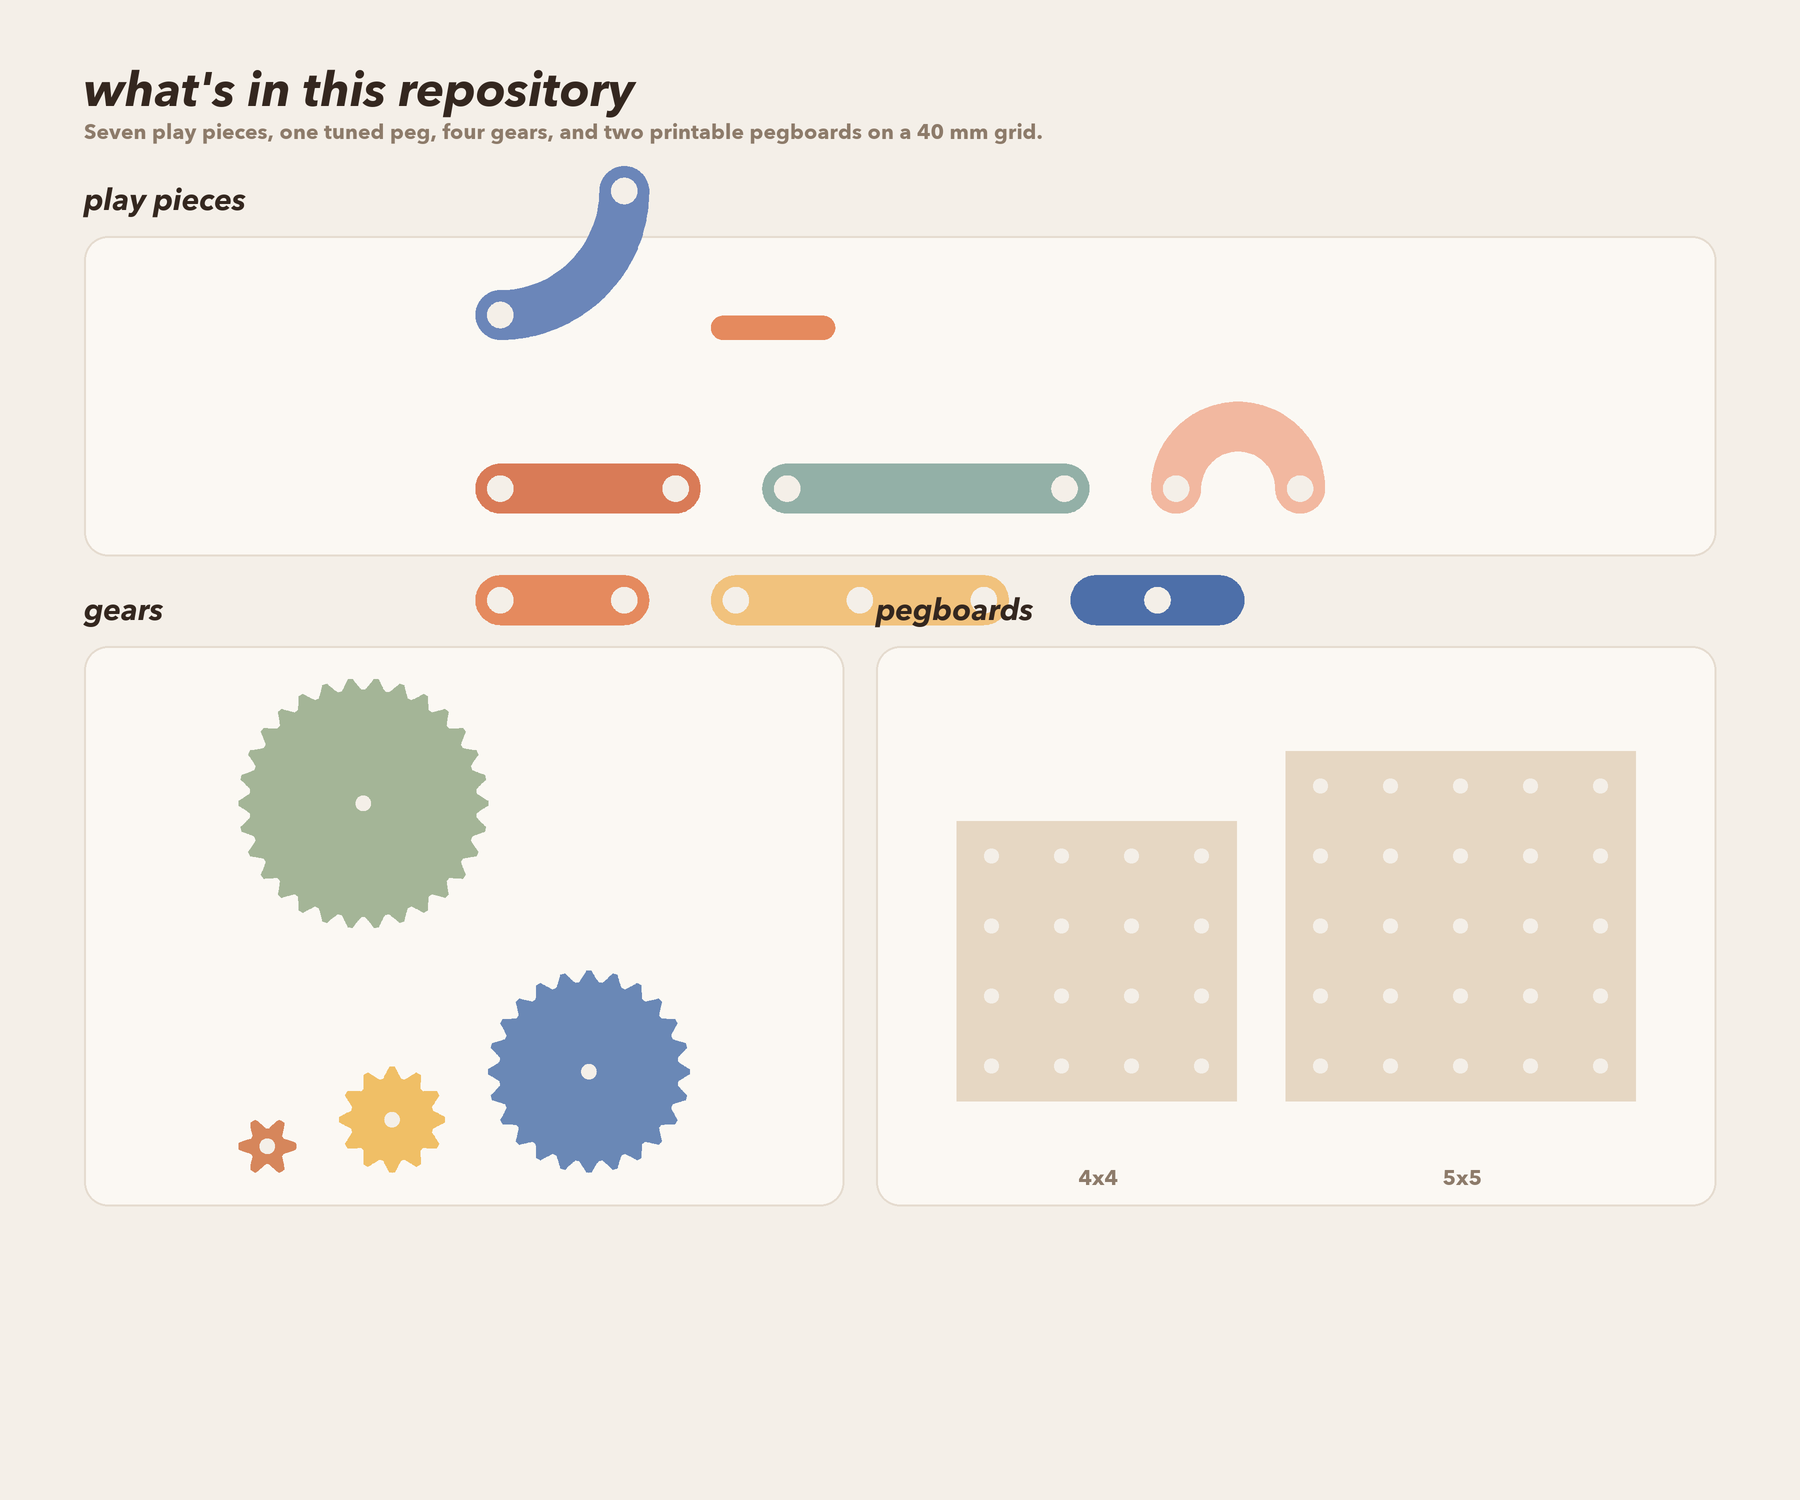
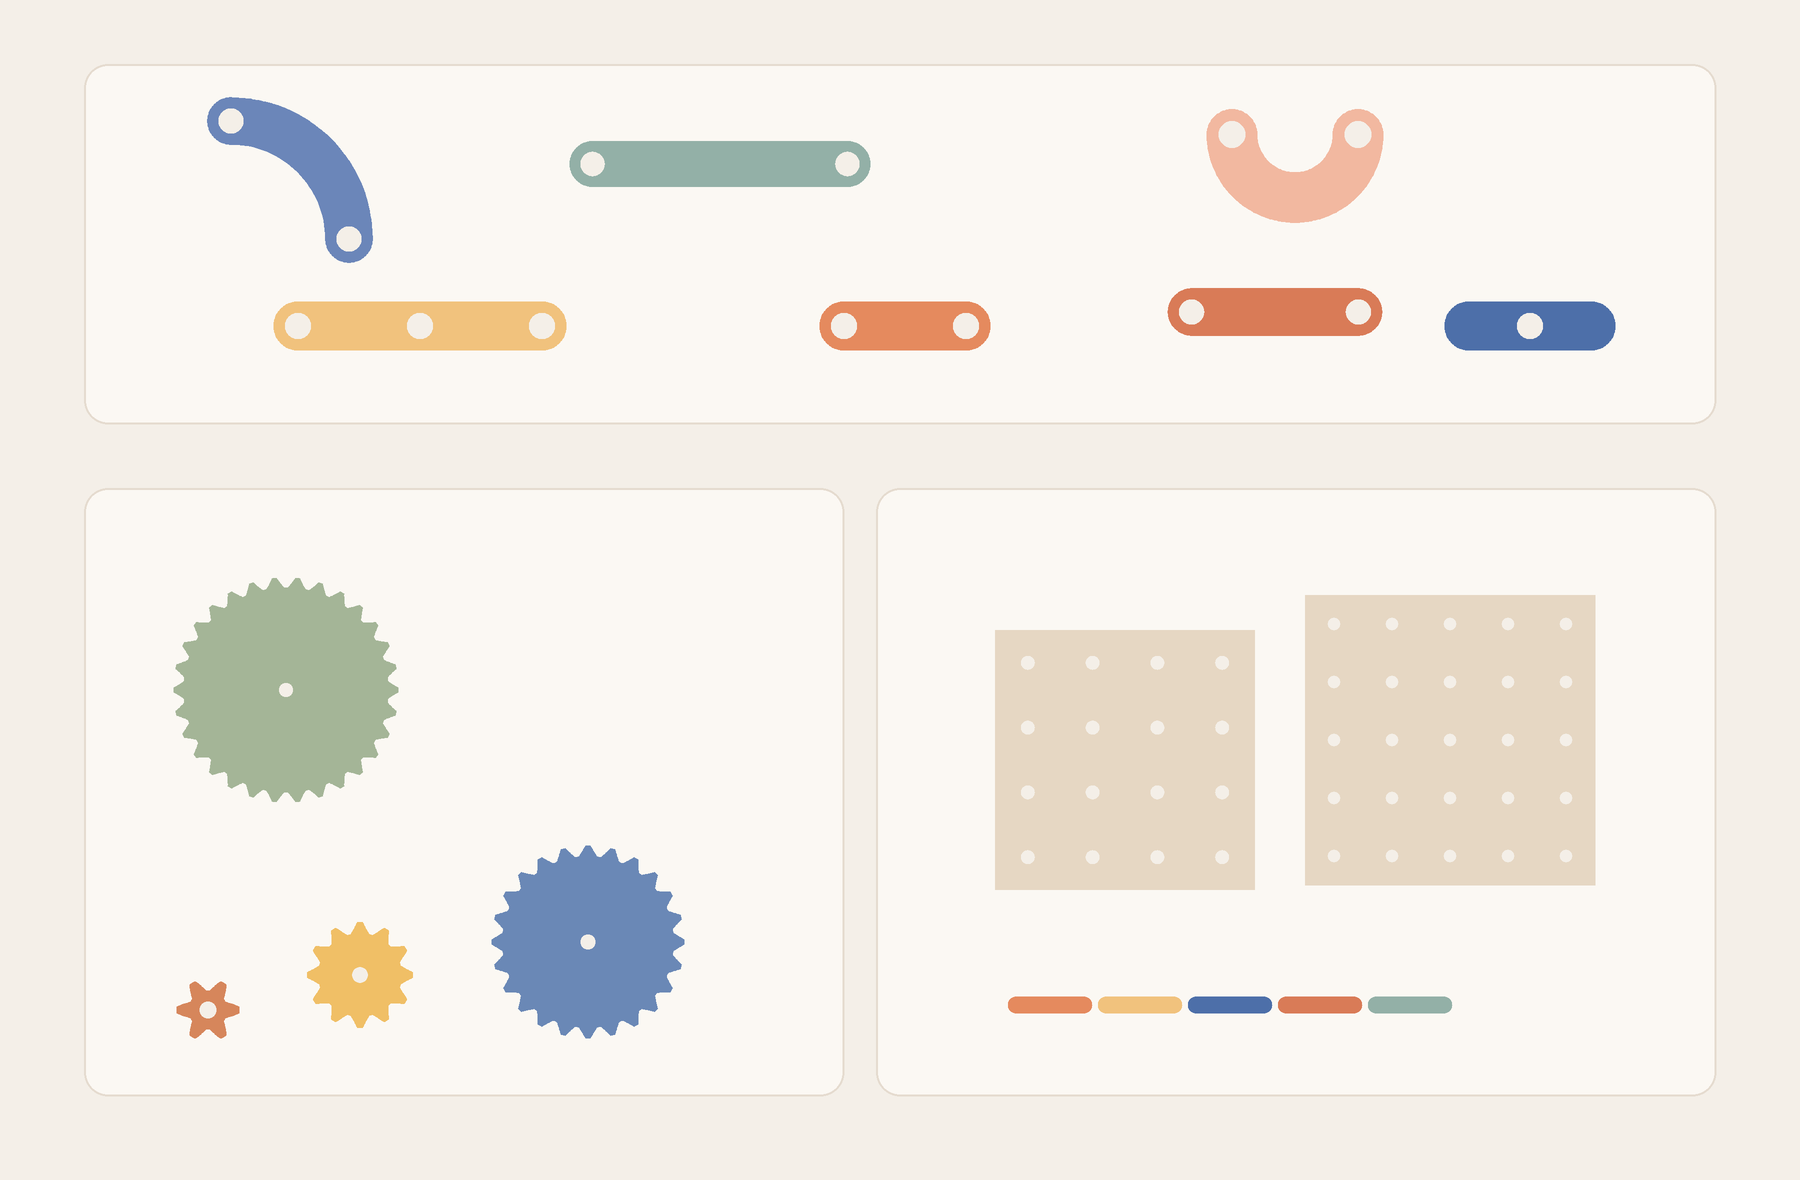
Refine overview section

diff --git a/generate_repository_assets.py b/generate_repository_assets.py
@@ -33,8 +33,7 @@ BOARD_HOLE = "#6D5747"
 
 UPSCALE = 2
 CANVAS_W = 1800
-CANVAS_H = 1500
-DRAW_SCALE = 2.2
+CANVAS_H = 1180
 
 
 def load_font(size: int, bold: bool = False):
@@ -67,7 +66,7 @@ def peg_profile():
     return LineString([(start_x, 0.0), (end_x, 0.0)]).buffer(radius, quad_segs=shapes_gen.ARC_SEGMENTS_PER_QUARTER)
 
 
-def piece_geometries():
+def play_piece_geometries():
     pitch = shapes_gen.PITCH_MM
     return [
         shapes_gen.shape_from_path([(0.0, 0.0), (pitch, 0.0)], [(0.0, 0.0), (pitch, 0.0)]),
@@ -100,7 +99,6 @@ def piece_geometries():
             end_deg=0.0,
             hole_centers=[(0.0, 0.0), (pitch, pitch)],
         ),
-        peg_profile(),
     ]
 
 
@@ -121,33 +119,6 @@ def board_geometry(cols: int, rows: int):
             )
             holes.append(circle(center, boards_gen.BOARD_HOLE_DIAMETER_MM))
     return board.difference(unary_union(holes)).buffer(0)
-
-
-def arrange_geometries(
-    geometries: list[Polygon],
-    spacing_mm: float,
-    max_row_width_mm: float,
-) -> tuple[list[Polygon], tuple[float, float]]:
-    placed = []
-    cursor_x = 0.0
-    cursor_y = 0.0
-    row_height = 0.0
-
-    for geometry in geometries:
-        min_x, min_y, max_x, max_y = geometry.bounds
-        width = max_x - min_x
-        height = max_y - min_y
-        if cursor_x > 0.0 and cursor_x + width > max_row_width_mm:
-            cursor_x = 0.0
-            cursor_y += row_height + spacing_mm
-            row_height = 0.0
-        placed.append(affinity.translate(geometry, xoff=cursor_x - min_x, yoff=cursor_y - min_y))
-        cursor_x += width + spacing_mm
-        row_height = max(row_height, height)
-
-    max_x = max(geometry.bounds[2] for geometry in placed)
-    max_y = max(geometry.bounds[3] for geometry in placed)
-    return placed, (max_x, max_y)
 
 
 def draw_geometry(draw: ImageDraw.ImageDraw, geometry, transform, fill):
@@ -232,101 +203,68 @@ def generate_overview():
     logical_image = Image.new("RGB", (CANVAS_W * UPSCALE, CANVAS_H * UPSCALE), BACKGROUND)
     draw = ImageDraw.Draw(logical_image)
 
-    title_font = load_font(48 * UPSCALE, bold=True)
-    section_font = load_font(30 * UPSCALE, bold=True)
-    note_font = load_font(21 * UPSCALE)
-
-    draw.text((84 * UPSCALE, 58 * UPSCALE), "what's in this repository", fill=TEXT, font=title_font)
-    draw.text(
-        (84 * UPSCALE, 118 * UPSCALE),
-        "Seven play pieces, one tuned peg, four gears, and two printable pegboards on a 40 mm grid.",
-        fill=SUBTLE,
-        font=note_font,
-    )
-
-    def draw_card(title: str, x: int, y: int, w: int, h: int):
-        draw.text((x * UPSCALE, y * UPSCALE), title, fill=TEXT, font=section_font)
-        card_y = (y + 56) * UPSCALE
+    def draw_card(x: int, y: int, w: int, h: int):
         draw.rounded_rectangle(
-            (x * UPSCALE, card_y, (x + w) * UPSCALE, card_y + h * UPSCALE),
+            (x * UPSCALE, y * UPSCALE, (x + w) * UPSCALE, (y + h) * UPSCALE),
             radius=24 * UPSCALE,
             fill=CARD,
             outline=CARD_STROKE,
             width=2 * UPSCALE,
         )
-        return x * UPSCALE, card_y, w * UPSCALE, h * UPSCALE
+        return (x * UPSCALE, y * UPSCALE, w * UPSCALE, h * UPSCALE)
 
-    def draw_arranged_group(
-        title: str,
-        geometries,
-        colors,
-        x: int,
-        y: int,
-        w: int,
-        h: int,
-        scale: float,
-        max_row_width_mm: float,
-        spacing_mm: float = 20.0,
-        labels: list[str] | None = None,
-    ):
-        card_x, card_y, card_w, card_h = draw_card(title, x, y, w, h)
-        arranged, (content_w_mm, content_h_mm) = arrange_geometries(geometries, spacing_mm=spacing_mm, max_row_width_mm=max_row_width_mm)
-        content_w_px = int(content_w_mm * scale * UPSCALE)
-        content_h_px = int(content_h_mm * scale * UPSCALE)
-        origin_x = card_x + (card_w - content_w_px) // 2
-        origin_y = card_y + (card_h + content_h_px) // 2
+    def draw_centered(geometry, center_x: float, center_y: float, scale: float, fill: str):
+        scaled = affinity.scale(geometry, xfact=scale * UPSCALE, yfact=scale * UPSCALE, origin=(0.0, 0.0))
+        min_x, min_y, max_x, max_y = scaled.bounds
+        placed = affinity.translate(
+            scaled,
+            xoff=center_x * UPSCALE - (min_x + max_x) / 2.0,
+            yoff=center_y * UPSCALE - (min_y + max_y) / 2.0,
+        )
+        draw_geometry(draw, placed, lambda x, y: (x, y), fill)
 
-        def transform(xx: float, yy: float):
-            px = origin_x + xx * scale * UPSCALE
-            py = origin_y - yy * scale * UPSCALE
-            return (px, py)
+    draw_card(84, 64, 1632, 360)
+    draw_card(84, 488, 760, 608)
+    draw_card(876, 488, 840, 608)
 
-        for index, geometry in enumerate(arranged):
-            draw_geometry(draw, geometry, transform, colors[index % len(colors)])
+    pieces = play_piece_geometries()
+    piece_layout = [
+        (pieces[6], PIECE_COLORS[6], 290, 180, 2.95),
+        (pieces[4], PIECE_COLORS[4], 720, 164, 2.85),
+        (pieces[5], PIECE_COLORS[5], 1295, 166, 3.15),
+        (pieces[1], PIECE_COLORS[1], 420, 326, 3.05),
+        (pieces[0], PIECE_COLORS[0], 905, 326, 3.05),
+        (pieces[3], PIECE_COLORS[3], 1275, 312, 2.95),
+        (pieces[2], PIECE_COLORS[2], 1530, 326, 3.05),
+    ]
+    for geometry, color, center_x, center_y, scale in piece_layout:
+        draw_centered(geometry, center_x, center_y, scale, color)
 
-        if labels:
-            for label, geometry in zip(labels, arranged):
-                min_x, _, max_x, _ = geometry.bounds
-                label_x = origin_x + ((min_x + max_x) / 2.0) * scale * UPSCALE
-                draw.text((label_x - 18 * UPSCALE, card_y + card_h - 42 * UPSCALE), label, fill=SUBTLE, font=note_font)
+    gears = gear_geometries()
+    gear_layout = [
+        (gears[3], GEAR_COLORS[3], 286, 690, 1.62),
+        (gears[0], GEAR_COLORS[0], 208, 1010, 1.95),
+        (gears[1], GEAR_COLORS[1], 360, 975, 1.80),
+        (gears[2], GEAR_COLORS[2], 588, 942, 1.72),
+    ]
+    for geometry, color, center_x, center_y, scale in gear_layout:
+        draw_centered(geometry, center_x, center_y, scale, color)
 
-    draw_arranged_group(
-        "play pieces",
-        piece_geometries(),
-        PIECE_COLORS,
-        x=84,
-        y=180,
-        w=1632,
-        h=320,
-        scale=3.1,
-        max_row_width_mm=320.0,
-        spacing_mm=20.0,
-    )
-    draw_arranged_group(
-        "gears",
-        gear_geometries(),
-        GEAR_COLORS,
-        x=84,
-        y=590,
-        w=760,
-        h=560,
-        scale=1.8,
-        max_row_width_mm=300.0,
-        spacing_mm=24.0,
-    )
-    draw_arranged_group(
-        "pegboards",
-        [board_geometry(4, 4), board_geometry(5, 5)],
-        (BOARD_FILL, BOARD_FILL),
-        x=876,
-        y=590,
-        w=840,
-        h=560,
-        scale=1.75,
-        max_row_width_mm=500.0,
-        spacing_mm=28.0,
-        labels=["4x4", "5x5"],
-    )
+    board_4x4 = board_geometry(4, 4)
+    board_5x5 = board_geometry(5, 5)
+    draw_centered(board_4x4, 1125, 760, 1.62, BOARD_FILL)
+    draw_centered(board_5x5, 1450, 740, 1.45, BOARD_FILL)
+
+    peg = peg_profile()
+    peg_layout = [
+        (1050, 1005, PIECE_COLORS[0]),
+        (1140, 1005, PIECE_COLORS[1]),
+        (1230, 1005, PIECE_COLORS[2]),
+        (1320, 1005, PIECE_COLORS[3]),
+        (1410, 1005, PIECE_COLORS[4]),
+    ]
+    for center_x, center_y, color in peg_layout:
+        draw_centered(peg, center_x, center_y, 2.1, color)
 
     logical_image.resize((CANVAS_W, CANVAS_H), Image.Resampling.LANCZOS).save(ASSETS_DIR / "overview.png", quality=95)
 

diff --git a/README.md b/README.md
@@ -14,11 +14,17 @@ I had a silly idea for a pegboard toy. Before opening Fusion, SketchUp, or any o
 
 This repository is the result. The geometry is kept as plain Python generators, then tuned through real print-and-fit tests.
 
+## What's in this repository
+
 <p align="center">
-  <img src="assets/overview.png" alt="Overview render of the play pieces, gears, and printable pegboards included in the repository" width="100%">
+  <img src="assets/overview.png" alt="Overview render showing the play pieces, gears, printable pegboards, and tuned pegs included in the repository" width="100%">
 </p>
 
-## What's here
+| Play pieces | Gears | Pegboards and pegs |
+| --- | --- | --- |
+| Seven flat pieces in [pieces/](pieces) with `8.45 mm` holes, tuned to lift on and off the pegs easily. | Four smooth gears in [gears/](gears), tuned to mesh on the `40 mm` peg grid. | Two printable boards in [boards/](boards) plus the tuned peg in [pieces/](pieces). |
+
+## Files
 
 - `pieces/`  
   Final play pieces plus the tuned peg.
